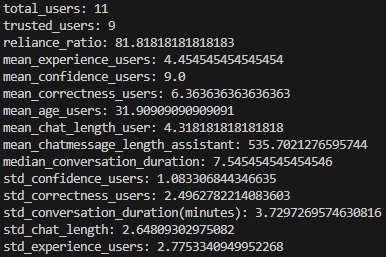
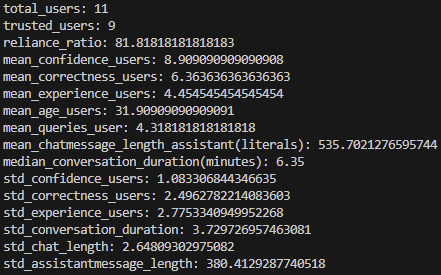
figures

diff --git a/evaluation.py b/evaluation.py
@@ -58,89 +58,114 @@ def get_db_metrics_chatbot(botver: str):
         "total_users": leng,
         "trusted_users": trusted_users,
         "reliance_ratio": trusted_users / leng * 100,
-        "mean_experience_users": np.mean(experience),
-        "mean_confidence_users": np.median(confidence),
+        "mean_confidence_users": np.mean(confidence),
         "mean_correctness_users": np.mean(correctness),
+        "mean_experience_users": np.mean(experience),
         "mean_age_users": np.mean(age),
         "chatbot_history": assistant_messages,
-        "mean_chat_length_user": np.mean(chat_length),
-        "mean_chatmessage_length_assistant": np.mean(messages_length),
-        "median_conversation_duration": np.mean(filtered_data) / 60,
+        "mean_queries_user": np.mean(chat_length),
+        "mean_chatmessage_length_assistant(literals)": np.mean(messages_length),
+        "median_conversation_duration(minutes)": np.median(filtered_data),
         "std_confidence_users": np.std(confidence),
         "std_correctness_users": np.std(correctness),
-        "std_conversation_duration(minutes)": np.std(filtered_data) / 60,
+        "std_experience_users": np.std(experience),
+        "std_conversation_duration": np.std(filtered_data),
         "std_chat_length": np.std(chat_length),
-        "std_experience_users": np.std(experience)
+        "std_assistantmessage_length": np.std(messages_length)
     }
     #print(filtered_data, duration)
-    return metrics
+    #return metrics
+    return messages_length
 
 def preprocess_anova(test: str):
-    client = intitializeClient()
-    response = client.table("evaluation_submissions").select("chatbot_used, confidence_value, correctness_value, experience_level, age, duration_until_conversation_end, gender")\
-        .execute()
+    if test != "message_length":
+        client = intitializeClient()
+        response = client.table("evaluation_submissions").select("chatbot_used, confidence_value, correctness_value, experience_level, age, duration_until_conversation_end, gender")\
+            .execute()
 
-    bot_list = []
-    conf_list = []
-    correct_list = []
-    exp_list = []
-    age_list = []
-    duration_list = []
-    gender_list = []
+        bot_list = []
+        conf_list = []
+        correct_list = []
+        exp_list = []
+        age_list = []
+        duration_list = []
+        gender_list = []
 
-    data_conf = {
-        'chatbot_version': bot_list,
-        'confidence_value': conf_list
-    }
+        data_conf = {
+            'chatbot_version': bot_list,
+            'confidence_value': conf_list
+        }
 
-    data_correct = {
-        'chatbot_version': bot_list,
-        'correctness_value': correct_list
-    }
+        data_correct = {
+            'chatbot_version': bot_list,
+            'correctness_value': correct_list
+        }
 
-    data_experience = {
-        'chatbot_version': bot_list,
-        'experience_level': exp_list
-    }
+        data_experience = {
+            'chatbot_version': bot_list,
+            'experience_level': exp_list
+        }
 
-    data_age = {
-        'chatbot_version': bot_list,
-        'age': age_list
-    }
+        data_age = {
+            'chatbot_version': bot_list,
+            'age': age_list
+        }
 
-    data_time = {
-        'chatbot_version': bot_list,
-        'duration_until_conversation_end': duration_list
-    }
+        data_time = {
+            'chatbot_version': bot_list,
+            'duration_until_conversation_end': duration_list
+        }
 
-    data_gender = {
-        "chatbot_version": bot_list,
-        "gender": gender_list
-    }
+        data_gender = {
+            "chatbot_version": bot_list,
+            "gender": gender_list
+        }
 
-    for dict in response.data:
-        bot_list.append(dict['chatbot_used'])
-        conf_list.append(dict['confidence_value'])
-        correct_list.append(dict['correctness_value'])
-        exp_list.append(dict['experience_level'])
-        age_list.append(dict['age'])
-        duration_list.append(dict['duration_until_conversation_end']/60)
-        gender_list.append(dict["gender"])
-    
+        for dict in response.data:
+            bot_list.append(dict['chatbot_used'])
+            conf_list.append(dict['confidence_value'])
+            correct_list.append(dict['correctness_value'])
+            exp_list.append(dict['experience_level'])
+            age_list.append(dict['age'])
+            duration_list.append(dict['duration_until_conversation_end']/60)
+            gender_list.append(dict["gender"])
 
-    if test == 'confidence':
-        return data_conf
-    elif test == 'correctness':
-        return data_correct
-    elif test == 'experience':
-        return data_experience
-    elif test == 'age':
-        return data_age
-    elif test == 'time':
-        return data_time
-    elif test == "gender":
-        data_gender["gender"] = ["Female" if x == "Woman" else x for x in gender_list]
-        return data_gender
+
+        if test == 'confidence':
+            return data_conf
+        elif test == 'correctness':
+            return data_correct
+        elif test == 'experience':
+            return data_experience
+        elif test == 'age':
+            return data_age
+        elif test == 'time':
+            return data_time
+        elif test == "gender":
+            data_gender["gender"] = ["Female" if x == "Woman" else x for x in gender_list]
+            return data_gender
+    else:
+        bot_list=[]
+        length_list = []
+        metrics=[]
+        metrics1 = get_db_metrics_chatbot("ChatBot 1")
+        metrics2 = get_db_metrics_chatbot("ChatBot 2")
+        metrics3 = get_db_metrics_chatbot("ChatBot 3")
+        metrics.append(metrics1)
+        metrics.append(metrics2)
+        metrics.append(metrics3)
+        x=1
+        for value in metrics:
+            for j in value:
+                bot_list.append(x)
+                length_list.append(j)
+            x+=1
+        print(bot_list, length_list)
+        data_messagelength = {
+            "chatbot_version": bot_list,
+            "gender": length_list
+        }
+        return data_messagelength
 
 def anova_test(dependent_var: str):
     df = preprocess_anova(dependent_var)
@@ -175,19 +200,34 @@ def preprocess_chi():
     return df
 
 def chi_squared():
-    df = preprocess_chi()
-    contingency = pd.crosstab(df['chatbot_version'], df['trust'])
+    #df = preprocess_chi()
+    #contingency = pd.crosstab(df['chatbot_version'], df['trust'])
 
-    chi2, p, dof, expected = stats.chi2_contingency(contingency)
+    contingency2 = pd.DataFrame({
+        "hedge": [23, 174, 237],
+        "no_hedge": [252, 250, 117]
+    }, index=["group_A", "group_B", "group_C"])
 
-    n = contingency.to_numpy().sum()  # total sample size
-    cramers_v = np.sqrt(chi2 / (n * (min(contingency.shape)-1)))
+    pairs = {
+    "G1 vs G2": [[23, 252], [174, 250]],
+    "G1 vs G3": [[23, 252], [237, 117]],
+    "G2 vs G3": [[174, 250], [237, 117]]
+    }
+
+    for name, table in pairs.items():
+        chi2, p, _, _ = stats.chi2_contingency(table)
+        print(f"{name}: p = {p*3}")
+    #chi2, p, dof, expected = stats.chi2_contingency(contingency2)
+
+    #n = contingency.to_numpy().sum()  # total sample size
+    """n = contingency2.values.sum()
+    cramers_v = np.sqrt(chi2 / (n * (min(contingency2.shape)-1)))
 
     print("Cramér's V:", cramers_v)
     print("Chi2:", chi2)
     print("p-value:", p)
     print("Degrees of freedom:", dof)
-    print("Expected frequencies:\n", expected)
+    print("Expected frequencies:\n", expected)"""
 
 def tukey_hsd():
     df = preprocess_anova("correctness")
@@ -294,14 +334,14 @@ def split_sentences(strings):
     return sentences
 
 #chi_squared()
-#anova_test('time')
+anova_test('message_length')
 #tukey_hsd()
 #hedge_multiclassification()
 #hedge_classification2("ChatBot 1")
-#bot1_metrics = get_db_metrics_chatbot("ChatBot 1")
-#bot2_metrics = get_db_metrics_chatbot("ChatBot 2")
-#bot3_metrics = get_db_metrics_chatbot("ChatBot 3")
-'''for item in bot1_metrics:
+"""bot1_metrics = get_db_metrics_chatbot("ChatBot 1")
+bot2_metrics = get_db_metrics_chatbot("ChatBot 2")
+bot3_metrics = get_db_metrics_chatbot("ChatBot 3")
+for item in bot1_metrics:
     if item != "chatbot_history":
         print(f"{item}: {bot1_metrics.get(item)}")
 for item in bot2_metrics:
@@ -309,7 +349,7 @@ for item in bot2_metrics:
         print(f"{item}: {bot2_metrics.get(item)}")
 for item in bot3_metrics:
     if item != "chatbot_history":
-        print(f"{item}: {bot3_metrics.get(item)}")'''
+        print(f"{item}: {bot3_metrics.get(item)}")"""
 
 """ ---VISUALIZATION--- """
 import seaborn as sns
@@ -380,11 +420,12 @@ def visualize_metrics(metric: str):
     #plt.show()
 
 def visualize_anova():
-    df = preprocess_anova("time")
-    sns.boxplot(data=df, x="chatbot_version", y="duration_until_conversation_end", showfliers = False)
+    df = preprocess_anova("confidence")
+    sns.boxplot(data=df, x="chatbot_version", y="confidence_value", showfliers = False)
     #sns.displot(data=df, hue="chatbot_version", x="gender", multiple="stack")
     #plt.show()
-    plt.savefig("time.png")
+    plt.title("Perceived confidence")
+    plt.savefig("confidence2.png")
 
 def visualize_hedgeclassification():
     results = hedge_classification2("ChatBot 3")
